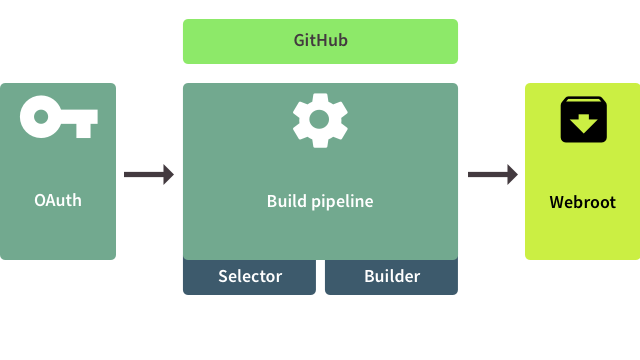
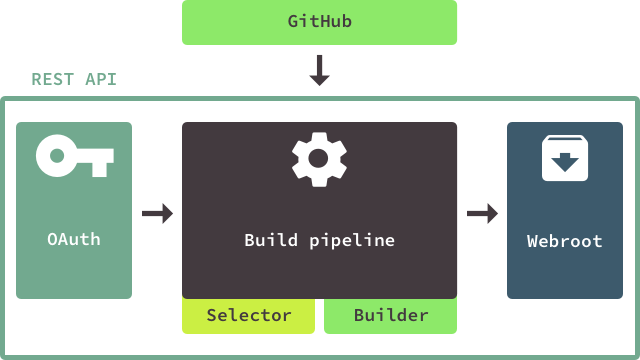
fix(chapter5): Fixed rru suggestions, fixed graphic

diff --git a/chapters/05-implementation/_support/mongodb.tex b/chapters/05-implementation/_support/mongodb.tex
@@ -7,3 +7,18 @@ Additionally, MongoDB also features the possibility of administration via
 JavaScript-files on the server-side. These files may not only query the database for entries, but also contain predefined tasks for manipulating the contents -- critical commands therefore should be rather automated by a \emph{Cronjob} or executed by the user from within the \emph{mongo} shell by only using this form of interaction method \cite{MongoDBWritingScripts}. This supports preventing mistyped commands as well as reducing the risk of data loss on the database. Moreover, it may also help in constantly keeping a second database updated, which is intended for testing purposes and is assumedly relying on a production-like ecosystem.
 
 In this case, the database is used for holding user data together with data logged by the API during every single build process. Thus, the user may get provided with a seamless reproduction of the build history of his/her project at any time.
+
+\subsubsection{Schemas}
+Besides holding user data and information about the build cycles, the database also is the first section to be addressed in terms of information about the currently processed repository itself. This saves time and reduces the access rate to the GitHub API, as the most important information about the repository and its contributors gets stored in the database upon registration using the REST API.
+
+However, most of the required data during a build cycle still is fetched from GitHub, as the database's core task is the user management, as well as the storage of build logs. It would be a bit redundant to also constantly update repository changes on GitHub into the database.
+
+Therefore, the schema structure on the database can be listed as follows:
+
+\begin{description}
+  \item[users] -- Holds the plain user data, users have to sign up using the e-mail addresses they are also using on GitHub.
+  \item[clients] -- Registered users have to register a client for OAuth 2.0 token exchange. Client ID and password are generated automatically by the REST API.
+  \item[accesstokens] -- Holds access tokens issued by the OAuth 2.0 framework. The tokens are only valid for 60 minutes and are checked for validity upon every request (see ch. \ref{sec:foundation-express-oauth} on p. \pageref{sec:foundation-express-oauth}).
+  \item[projects] -- Once new repositories are registered using the REST API, data from GitHub is fetched and stored together with references to the user schema. Furthermore, every time a build log was created, the respective array in the project schema grows by one reference to the ``builds'' schema.
+  \item[builds] -- Every time a build cycle was triggered and succeeded in validating the repository information on GitHub, an intermediate build entry is created. Finally, after the process finished, the success property in the build log is updated accordingly (either \emph{true} or \emph{false}).
+\end{description}

diff --git a/chapters/05-implementation/_support/basicsetup.tex b/chapters/05-implementation/_support/basicsetup.tex
@@ -20,4 +20,4 @@ The skeleton coming with the package needs to be configured based on the current
 
 \lstinputlisting[caption={A basic router configuration showing the use of an authorization service as a middleware, thus dividing the routes into fully accessible ones (\emph{/all}) and ones with limited access (\emph{/limited} and \emph{/secret}).}, language=JavaScript, label={list:oauth-routes}]{chapters/05-implementation/_support/oauth.js}
 
-From this point on, the client has to provide an access token in the \emph{Authorization} HTTP header using the ``Bearer'' authentication scheme for gaining access \cite[5]{RFC6750}. The service will deny further processing if either an inexisting or already expired access token was provided. In this case, the client has to exchange his/her correct client credentials for a new access token on the authorization endpoint prior accessing the desired endpoint again \cite[41]{hardt2012oauth}.
+From this point on, the client has to provide an access token in the \emph{Authorization} HTTP header using the ``Bearer'' authentication scheme for gaining access \cite[5]{RFC6750}. The service will deny further processing if either an inexisting or already expired access token was provided. In this case, the client has to exchange his/her correct client credentials for a new access token on the authorization endpoint prior accessing the desired endpoint again \cite[41]{hardt2012oauth} (see ch. \ref{sec:foundation-express-oauth} on p. \pageref{sec:foundation-express-oauth}).

diff --git a/chapters/05-implementation/_support/buildpipeline.tex b/chapters/05-implementation/_support/buildpipeline.tex
@@ -2,13 +2,13 @@
 \label{sec:structure-buildpipeline}
 After the HTTP- and authentication service was built as a user interaction possibility for the upcoming build pipeline realization, the full extent of the necessary API endpoints needed to be defined. Since the OAuth 2.0 framework was already implemented and the access to the GitHub API was prepared as includeable module, only the endpoints responsible for managing and triggering builds, needed to be reserved for the final build service development.
 
-\subsubsection{API integration}
+\subsubsection{API definition}
 
 %% Graphic of the first draft of the API
 \begin{figure} % h-ere, t-op, b-ottom, p-age
     \centering
     \includegraphics[width=0.9\textwidth]{buildpipeline-api.png}
-    \caption{A graphic showing the first draft of the then proposed API cycle. At first the OAuth step should care for authentication, then the build pipeline should be initiated and orchestrate its services to interact with the GitHub API, select files to build and run the build task before saving a rendered version of the webroot, ready for deployment.}
+    \caption{A graphic showing the first draft of the then proposed REST API cycle. At first the OAuth step should care for authentication, then the build pipeline should be initiated and orchestrate its services to interact with the GitHub API, select files to build and run the build task before saving a rendered version of the webroot, ready for deployment.}
     \label{fig:buildpipeline-api}
 \end{figure}
 %
